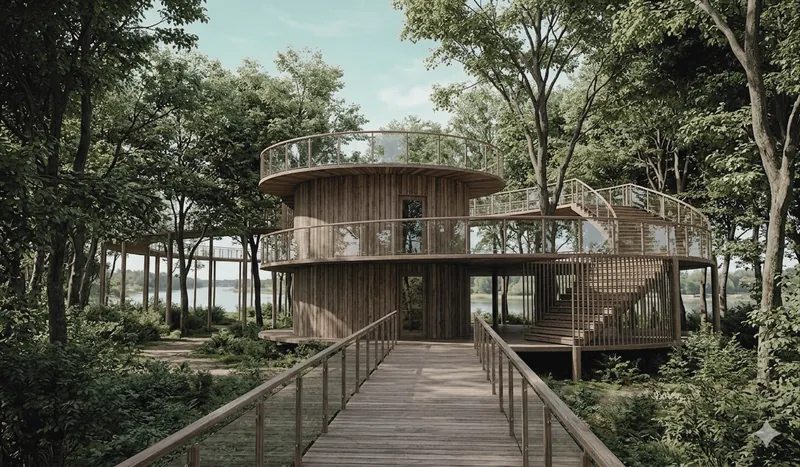
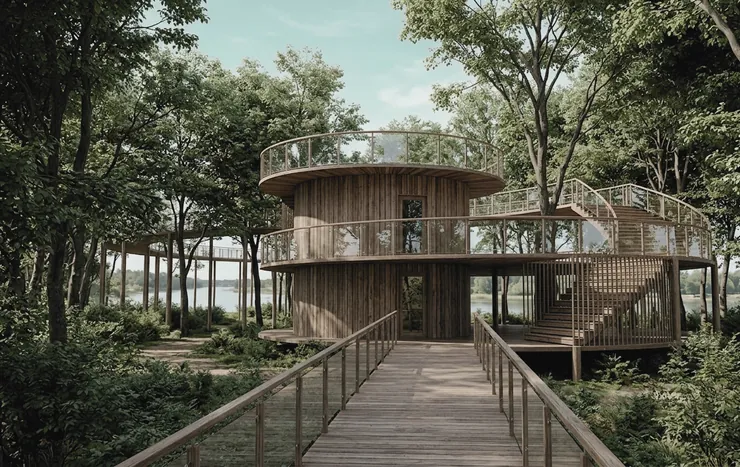
Crop Gemini sparkle watermark from affected renders
Claude-Session: https://claude.ai/code/session_01TiHG9SpF2BcSqmGpUoqjVJ

diff --git a/projekty/wyspa-opatowicka.html b/projekty/wyspa-opatowicka.html
@@ -37,7 +37,7 @@
 
   <figure class="p-hero is-contained wrap">
     <a href="../assets/img/wyspa-opatowicka/r01-1400.webp" data-lightbox="g" data-caption="01 — Pomost — aktywna rekreacja">
-      <img class="" src="../assets/img/wyspa-opatowicka/r01-1400.webp" srcset="../assets/img/wyspa-opatowicka/r01-1400.webp 799w" sizes="(max-width: 800px) 100vw, 92vw" width="799" height="471" alt="Pomost — aktywna rekreacja" fetchpriority="high" decoding="async">
+      <img class="" src="../assets/img/wyspa-opatowicka/r01-1400.webp" srcset="../assets/img/wyspa-opatowicka/r01-1400.webp 739w" sizes="(max-width: 800px) 100vw, 92vw" width="739" height="471" alt="Pomost — aktywna rekreacja" fetchpriority="high" decoding="async">
     </a>
     <figcaption><span class="idx">01</span> Pomost — aktywna rekreacja</figcaption>
   </figure>
@@ -51,31 +51,31 @@
   <section class="gallery wrap" aria-label="Wizualizacje">
       <figure class="g-item g-offset reveal">
         <a href="../assets/img/wyspa-opatowicka/r02-1400.webp" data-lightbox="g" data-caption="01 — Wieża widokowa w koronach drzew">
-          <img class="" src="../assets/img/wyspa-opatowicka/r02-1400.webp" srcset="../assets/img/wyspa-opatowicka/r02-1400.webp 800w" sizes="(max-width: 800px) 100vw, 60vw" width="800" height="467" alt="Wieża widokowa w koronach drzew" loading="lazy" decoding="async">
+          <img class="" src="../assets/img/wyspa-opatowicka/r02-1400.webp" srcset="../assets/img/wyspa-opatowicka/r02-1400.webp 740w" sizes="(max-width: 800px) 100vw, 60vw" width="740" height="467" alt="Wieża widokowa w koronach drzew" loading="lazy" decoding="async">
         </a>
         <figcaption><span class="idx">01</span> Wieża widokowa w koronach drzew</figcaption>
       </figure>
       <figure class="g-item g-pair-a reveal">
         <a href="../assets/img/wyspa-opatowicka/r03-1400.webp" data-lightbox="g" data-caption="02 — Pawilon na wyniesionej ścieżce">
-          <img class="" src="../assets/img/wyspa-opatowicka/r03-1400.webp" srcset="../assets/img/wyspa-opatowicka/r03-1400.webp 800w" sizes="(max-width: 800px) 100vw, 60vw" width="800" height="467" alt="Pawilon na wyniesionej ścieżce" loading="lazy" decoding="async">
+          <img class="" src="../assets/img/wyspa-opatowicka/r03-1400.webp" srcset="../assets/img/wyspa-opatowicka/r03-1400.webp 740w" sizes="(max-width: 800px) 100vw, 60vw" width="740" height="467" alt="Pawilon na wyniesionej ścieżce" loading="lazy" decoding="async">
         </a>
         <figcaption><span class="idx">02</span> Pawilon na wyniesionej ścieżce</figcaption>
       </figure>
       <figure class="g-item g-pair-b reveal">
         <a href="../assets/img/wyspa-opatowicka/r04-1400.webp" data-lightbox="g" data-caption="03 — Ścieżka nad lustrem wody">
-          <img class="" src="../assets/img/wyspa-opatowicka/r04-1400.webp" srcset="../assets/img/wyspa-opatowicka/r04-1400.webp 800w" sizes="(max-width: 800px) 100vw, 60vw" width="800" height="406" alt="Ścieżka nad lustrem wody" loading="lazy" decoding="async">
+          <img class="" src="../assets/img/wyspa-opatowicka/r04-1400.webp" srcset="../assets/img/wyspa-opatowicka/r04-1400.webp 740w" sizes="(max-width: 800px) 100vw, 60vw" width="740" height="406" alt="Ścieżka nad lustrem wody" loading="lazy" decoding="async">
         </a>
         <figcaption><span class="idx">03</span> Ścieżka nad lustrem wody</figcaption>
       </figure>
       <figure class="g-item g-offset reveal">
         <a href="../assets/img/wyspa-opatowicka/r05-1400.webp" data-lightbox="g" data-caption="04 — Pawilony nad nabrzeżem">
-          <img class="" src="../assets/img/wyspa-opatowicka/r05-1400.webp" srcset="../assets/img/wyspa-opatowicka/r05-1400.webp 800w" sizes="(max-width: 800px) 100vw, 60vw" width="800" height="446" alt="Pawilony nad nabrzeżem" loading="lazy" decoding="async">
+          <img class="" src="../assets/img/wyspa-opatowicka/r05-1400.webp" srcset="../assets/img/wyspa-opatowicka/r05-1400.webp 740w" sizes="(max-width: 800px) 100vw, 60vw" width="740" height="446" alt="Pawilony nad nabrzeżem" loading="lazy" decoding="async">
         </a>
         <figcaption><span class="idx">04</span> Pawilony nad nabrzeżem</figcaption>
       </figure>
       <figure class="g-item g-pair-b reveal">
         <a href="../assets/img/wyspa-opatowicka/r06-1400.webp" data-lightbox="g" data-caption="05 — Wyspa Miłości — pergola">
-          <img class="" src="../assets/img/wyspa-opatowicka/r06-1400.webp" srcset="../assets/img/wyspa-opatowicka/r06-1400.webp 800w" sizes="(max-width: 800px) 100vw, 60vw" width="800" height="446" alt="Wyspa Miłości — pergola" loading="lazy" decoding="async">
+          <img class="" src="../assets/img/wyspa-opatowicka/r06-1400.webp" srcset="../assets/img/wyspa-opatowicka/r06-1400.webp 740w" sizes="(max-width: 800px) 100vw, 60vw" width="740" height="446" alt="Wyspa Miłości — pergola" loading="lazy" decoding="async">
         </a>
         <figcaption><span class="idx">05</span> Wyspa Miłości — pergola</figcaption>
       </figure>

diff --git a/projekty/centrum-sztuki-i-sceny.html b/projekty/centrum-sztuki-i-sceny.html
@@ -37,7 +37,7 @@
 
   <figure class="p-hero is-wide wrap">
     <a href="../assets/img/centrum-sztuki-i-sceny/r01-2600.webp" data-lightbox="g" data-caption="01 — Wizualizacja zewnętrzna">
-      <img class="" src="../assets/img/centrum-sztuki-i-sceny/r01-1400.webp" srcset="../assets/img/centrum-sztuki-i-sceny/r01-1400.webp 1400w, ../assets/img/centrum-sztuki-i-sceny/r01-2600.webp 2600w" sizes="(max-width: 800px) 100vw, 92vw" width="2816" height="1504" alt="Wizualizacja zewnętrzna" fetchpriority="high" decoding="async">
+      <img class="" src="../assets/img/centrum-sztuki-i-sceny/r01-1400.webp" srcset="../assets/img/centrum-sztuki-i-sceny/r01-1400.webp 1400w, ../assets/img/centrum-sztuki-i-sceny/r01-2600.webp 2600w" sizes="(max-width: 800px) 100vw, 92vw" width="2604" height="1504" alt="Wizualizacja zewnętrzna" fetchpriority="high" decoding="async">
     </a>
     <figcaption><span class="idx">01</span> Wizualizacja zewnętrzna</figcaption>
   </figure>
@@ -51,13 +51,13 @@
   <section class="gallery wrap" aria-label="Wizualizacje">
       <figure class="g-item g-offset reveal">
         <a href="../assets/img/centrum-sztuki-i-sceny/r02-1400.webp" data-lightbox="g" data-caption="01 — Foyer">
-          <img class="" src="../assets/img/centrum-sztuki-i-sceny/r02-1400.webp" srcset="../assets/img/centrum-sztuki-i-sceny/r02-1400.webp 1104w" sizes="(max-width: 800px) 100vw, 60vw" width="1104" height="523" alt="Foyer" loading="lazy" decoding="async">
+          <img class="" src="../assets/img/centrum-sztuki-i-sceny/r02-1400.webp" srcset="../assets/img/centrum-sztuki-i-sceny/r02-1400.webp 1021w" sizes="(max-width: 800px) 100vw, 60vw" width="1021" height="523" alt="Foyer" loading="lazy" decoding="async">
         </a>
         <figcaption><span class="idx">01</span> Foyer</figcaption>
       </figure>
       <figure class="g-item g-pair-a reveal">
         <a href="../assets/img/centrum-sztuki-i-sceny/r03-1400.webp" data-lightbox="g" data-caption="02 — Sala widowiskowa">
-          <img class="" src="../assets/img/centrum-sztuki-i-sceny/r03-1400.webp" srcset="../assets/img/centrum-sztuki-i-sceny/r03-1400.webp 1177w" sizes="(max-width: 800px) 100vw, 60vw" width="1177" height="522" alt="Sala widowiskowa" loading="lazy" decoding="async">
+          <img class="" src="../assets/img/centrum-sztuki-i-sceny/r03-1400.webp" srcset="../assets/img/centrum-sztuki-i-sceny/r03-1400.webp 1088w" sizes="(max-width: 800px) 100vw, 60vw" width="1088" height="522" alt="Sala widowiskowa" loading="lazy" decoding="async">
         </a>
         <figcaption><span class="idx">02</span> Sala widowiskowa</figcaption>
       </figure>
@@ -69,7 +69,7 @@
       </figure>
       <figure class="g-item g-offset reveal">
         <a href="../assets/img/centrum-sztuki-i-sceny/r05-2600.webp" data-lightbox="g" data-caption="04 — Restauracja">
-          <img class="" src="../assets/img/centrum-sztuki-i-sceny/r05-1400.webp" srcset="../assets/img/centrum-sztuki-i-sceny/r05-1400.webp 1400w, ../assets/img/centrum-sztuki-i-sceny/r05-2600.webp 1536w" sizes="(max-width: 800px) 100vw, 60vw" width="1536" height="635" alt="Restauracja" loading="lazy" decoding="async">
+          <img class="" src="../assets/img/centrum-sztuki-i-sceny/r05-1400.webp" srcset="../assets/img/centrum-sztuki-i-sceny/r05-1400.webp 1400w, ../assets/img/centrum-sztuki-i-sceny/r05-2600.webp 1420w" sizes="(max-width: 800px) 100vw, 60vw" width="1420" height="635" alt="Restauracja" loading="lazy" decoding="async">
         </a>
         <figcaption><span class="idx">04</span> Restauracja</figcaption>
       </figure>

diff --git a/index.html b/index.html
@@ -34,7 +34,7 @@
       <p class="hero-scroll"><a href="#projekty">Wybrane projekty <span aria-hidden="true">↓</span></a></p>
     </div>
     <figure class="hero-figure">
-      <a href="projekty/centrum-sztuki-i-sceny.html"><img class="" src="assets/img/centrum-sztuki-i-sceny/r01-1400.webp" srcset="assets/img/centrum-sztuki-i-sceny/r01-1400.webp 1400w, assets/img/centrum-sztuki-i-sceny/r01-2600.webp 2600w" sizes="(max-width: 800px) 100vw, 62vw" width="2816" height="1504" alt="Wizualizacja zewnętrzna" fetchpriority="high" decoding="async"></a>
+      <a href="projekty/centrum-sztuki-i-sceny.html"><img class="" src="assets/img/centrum-sztuki-i-sceny/r01-1400.webp" srcset="assets/img/centrum-sztuki-i-sceny/r01-1400.webp 1400w, assets/img/centrum-sztuki-i-sceny/r01-2600.webp 2600w" sizes="(max-width: 800px) 100vw, 62vw" width="2604" height="1504" alt="Wizualizacja zewnętrzna" fetchpriority="high" decoding="async"></a>
       <figcaption><span class="idx">01</span> Centrum Sztuki i Sceny — Wrocław, ul. Piłsudskiego, 2025</figcaption>
     </figure>
   </section>
@@ -48,7 +48,7 @@
     
     <article class="feature is-left reveal">
       <a class="feature-media" href="projekty/centrum-sztuki-i-sceny.html">
-        <img class="" src="assets/img/centrum-sztuki-i-sceny/r02-1400.webp" srcset="assets/img/centrum-sztuki-i-sceny/r02-1400.webp 1104w" sizes="(max-width: 800px) 100vw, 60vw" width="1104" height="523" alt="Foyer" loading="lazy" decoding="async">
+        <img class="" src="assets/img/centrum-sztuki-i-sceny/r02-1400.webp" srcset="assets/img/centrum-sztuki-i-sceny/r02-1400.webp 1021w" sizes="(max-width: 800px) 100vw, 60vw" width="1021" height="523" alt="Foyer" loading="lazy" decoding="async">
       </a>
       <div class="feature-text">
         <p class="eyebrow"><span class="idx">01</span> Kultura · 2025</p>
@@ -72,7 +72,7 @@
     </article>
     <article class="feature is-left reveal">
       <a class="feature-media" href="projekty/wyspa-opatowicka.html">
-        <img class="" src="assets/img/wyspa-opatowicka/r01-1400.webp" srcset="assets/img/wyspa-opatowicka/r01-1400.webp 799w" sizes="(max-width: 800px) 100vw, 60vw" width="799" height="471" alt="Pomost — aktywna rekreacja" loading="lazy" decoding="async">
+        <img class="" src="assets/img/wyspa-opatowicka/r01-1400.webp" srcset="assets/img/wyspa-opatowicka/r01-1400.webp 739w" sizes="(max-width: 800px) 100vw, 60vw" width="739" height="471" alt="Pomost — aktywna rekreacja" loading="lazy" decoding="async">
       </a>
       <div class="feature-text">
         <p class="eyebrow"><span class="idx">03</span> Krajobraz · 2026</p>

diff --git a/tools/extract_assets.py b/tools/extract_assets.py
@@ -13,9 +13,9 @@ S = Path(sys.argv[1]); OUT = Path(sys.argv[2])
 SRC = S / "src/Portfolio archi Katarzyna Socha"; EMB = S / "emb"; TMP = S / "pages"; TMP.mkdir(exist_ok=True)
 
 P = {  # slug: (renders [(embedded-name | (pdf,page,box), caption)], boards (pdf, pages))
- "centrum-sztuki-i-sceny": ([("centrum-003-1202","Wizualizacja zewnętrzna"),("centrum-002-1196","Foyer"),("centrum-002-1194","Sala widowiskowa"),("centrum-002-1198","Sala konferencyjna"),("centrum-002-1200@0.945","Restauracja"),("centrum-003-3512","Aksonometria"),("centrum-001-1189","Rozwinięcie urbanistyczne ulicy Piłsudskiego")],("centrum",[1,2,3])),
+ "centrum-sztuki-i-sceny": ([("centrum-003-1202@0.925,1","Wizualizacja zewnętrzna"),("centrum-002-1196@0.925,1","Foyer"),("centrum-002-1194@0.925,1","Sala widowiskowa"),("centrum-002-1198","Sala konferencyjna"),("centrum-002-1200@0.925,0.945","Restauracja"),("centrum-003-3512","Aksonometria"),("centrum-001-1189","Rozwinięcie urbanistyczne ulicy Piłsudskiego")],("centrum",[1,2,3])),
  "zespol-wielofunkcyjny-plac-jana-pawla-ii": ([("jp2-005-182","Widok z lotu ptaka"),("jp2-003-122","Bryła w kontekście kwartału"),("jp2-004-173","Arkady parteru"),("jp2-003-124","Fasada — detal"),("jp2-003-126","Elewacja"),("jp2-003-123","Subtrakcja bryły — wejście do wnętrza kwartału"),("jp2-002-038","Rysunek koncepcyjny"),("jp2-002-033","Model roboczy"),("jp2-002-040","Szkic koncepcji")],("jp2",[1,2,3,4,5])),
- "wyspa-opatowicka": ([("wyspa-004-180","Pomost — aktywna rekreacja"),("wyspa-002-025","Wieża widokowa w koronach drzew"),("wyspa-002-033","Pawilon na wyniesionej ścieżce"),("wyspa-002-032","Ścieżka nad lustrem wody"),("wyspa-003-064","Pawilony nad nabrzeżem"),("wyspa-003-065","Wyspa Miłości — pergola"),("wyspa-003-152","Przystań"),("wyspa-004-174","Amfiteatr"),("wyspa-004-212","Kawiarnia — wnętrza")],("wyspa",[1,2,3,4])),
+ "wyspa-opatowicka": ([("wyspa-004-180@0.925,1","Pomost — aktywna rekreacja"),("wyspa-002-025@0.925,1","Wieża widokowa w koronach drzew"),("wyspa-002-033@0.925,1","Pawilon na wyniesionej ścieżce"),("wyspa-002-032@0.925,1","Ścieżka nad lustrem wody"),("wyspa-003-064@0.925,1","Pawilony nad nabrzeżem"),("wyspa-003-065@0.925,1","Wyspa Miłości — pergola"),("wyspa-003-152","Przystań"),("wyspa-004-174","Amfiteatr"),("wyspa-004-212","Kawiarnia — wnętrza")],("wyspa",[1,2,3,4])),
  "eco-cohousing": ([("inz-004-018","Widok osiedla z lotu ptaka"),("inz-003-016","Budynek wspólny"),("inz-005-037","Dom mieszkalny"),("inz-005-038","Dom mieszkalny — widok od ścieżki"),("inz-003-015","Budynek wspólny — perspektywa"),("inz-003-010","Aksonometria budynku wspólnego"),("inz-002-002","Projekt zagospodarowania terenu")],("inz",[2,3,4,5])),
  "hala-sportowa-opole": ([(("inz",9,(0.405,0.535,0.735,0.772)),"Wizualizacja wnętrza")],("inz",[9,10])),
  "obiekt-przemyslowy-nysa": ([(("inz",14,(0.062,0.535,0.768,0.842)),"Wizualizacja — strefa biurowa"),(("inz",17,(0.062,0.602,0.772,0.842)),"Wizualizacja — hala produkcyjna")],("inz",[14,15,16,17])),
@@ -64,9 +64,13 @@ for slug, (renders, (pdf, pages)) in P.items():
             pdfn, pn, (x0,y0,x1,y1) = src; pg = page(pdfn, pn)
             im = pg.crop((int(x0*pg.width), int(y0*pg.height), int(x1*pg.width), int(y1*pg.height)))
         else:
-            name, _, keep = src.partition("@")  # "@0.945" keeps the top 94.5% (drops a watermark)
-            im = Image.open(EMB/f"{name}.png").convert("RGB")
-            if keep: im = im.crop((0, 0, im.width, int(im.height*float(keep))))
+            # "name@x1,y1" keeps the left x1 / top y1 fraction (drops corner watermarks)
+            name, _, keep = src.partition("@")
+            up = S / "emb_up" / f"{name}.png"  # Real-ESRGAN version from upscale.py, when present
+            im = Image.open(up if up.exists() else EMB/f"{name}.png").convert("RGB")
+            if keep:
+                kx, ky = (float(v) for v in keep.split(","))
+                im = im.crop((0, 0, int(im.width*kx), int(im.height*ky)))
         r = save(im, OUT/slug/f"r{i:02d}")
         m["images"].append({"src": f"r{i:02d}", "w": im.width, "h": im.height, "caption": cap})
     for j, pn in enumerate(pages, 1):
